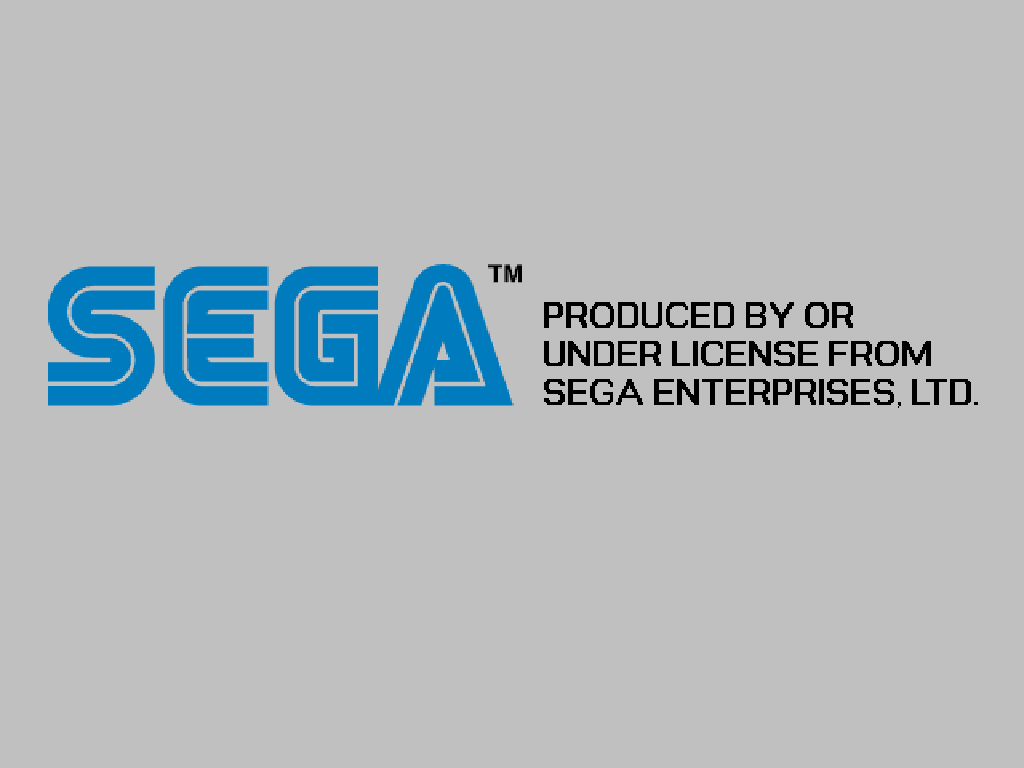
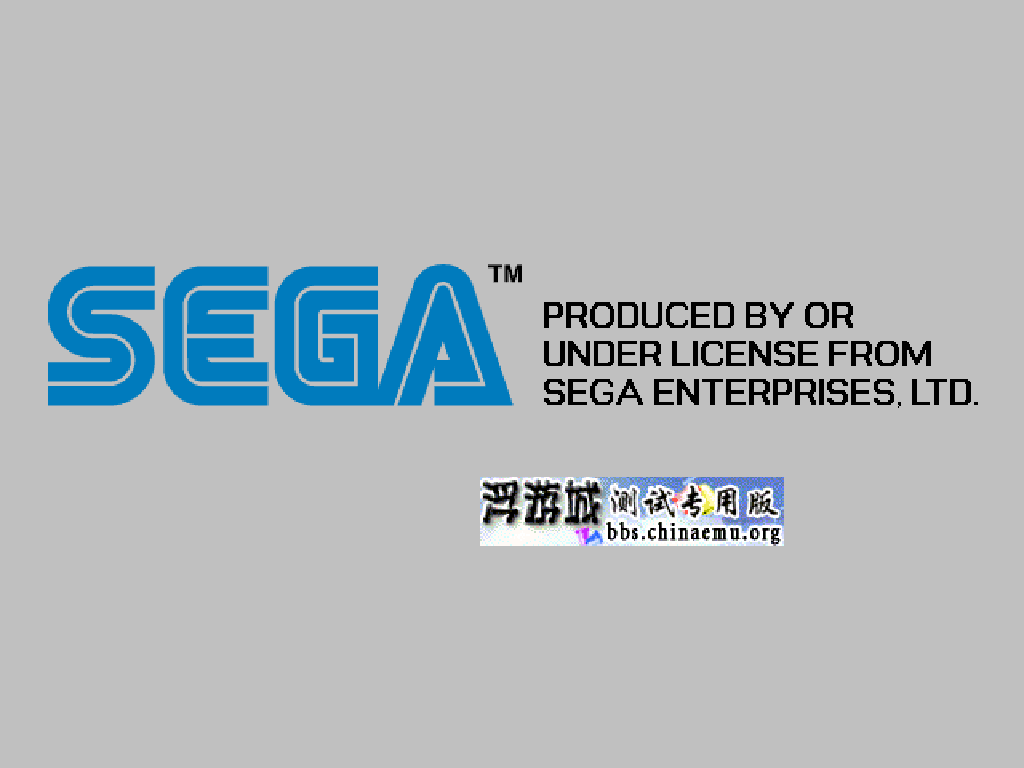
docs: the eight-core numbers from the flashed card, not from hand-deployed files
Same table, re-measured after the dd, and every row agrees with the previous run
inside noise (nes 59.84/59.82, dreamcast 59.05/58.85, saturn 14.22/14.13), which
is the point - the cores behave the same whether the files were copied or
installed by the pack.

Also corrects one claim: flycast's SIGTERM handling is unreliable rather than
absent (rc=137 one day, rc=124 the next on the same card and game), so the rule
is "always pass timeout -k", not "flycast ignores TERM". The Dreamcast image is
now the frame-900 capture, which also shows the translation patch's watermark.

Changed region(s): [[0.4688, 0.5938, 0.7812, 0.7188]]

diff --git a/documentation/PER_DEVICE_DOCUMENTATION/r36max2/EMULATORS.md b/documentation/PER_DEVICE_DOCUMENTATION/r36max2/EMULATORS.md
@@ -81,19 +81,23 @@ ES 的 <command> = /usr/local/bin/r36-play %ROM%
 
 | 系统 | 核 | 游戏 | 标称 | 实测持续 | 结论 |
 | --- | --- | --- | --- | --- | --- |
-| nes | fceumm | 宝石方块.zip | 60.10 | **59.84 fps** | 满速 |
-| snes | snes9x2010 | 超级马里奥医生.zip | 60.096 | **60.47 fps** | 满速 |
-| gb | gambatte | 打砖块.zip | 59.73 | **59.34 fps** | 满速 |
-| gbc | gambatte | 骰子方块.zip | 59.73 | **59.45 fps** | 满速 |
-| gba | mgba | 数独.zip | 59.73 | **60.18 fps** | 满速 |
-| gba | vba_next | 数独.zip | 59.73 | **61.03 fps** | 满速 |
-| psx | pcsx_rearmed | 大航海时代外传[简].PBP | 59.82 | **60.06 fps** | 满速 |
-| dreamcast | flycast | 月华剑士2 汉化版.cdi | 60 | **59.05 fps** | 基本满速 |
+| nes | fceumm | 宝石方块.zip | 60.10 | **59.82 fps** | 满速 |
+| snes | snes9x2010 | 超级马里奥医生.zip | 60.096 | **60.31 fps** | 满速 |
+| gb | gambatte | 打砖块.zip | 59.73 | **59.89 fps** | 满速 |
+| gbc | gambatte | 骰子方块.zip | 59.73 | **60.60 fps** | 满速 |
+| gba | mgba | 数独.zip | 59.73 | **60.00 fps** | 满速 |
+| gba | vba_next | 数独.zip | 59.73 | **62.13 fps** | 满速 |
+| psx | pcsx_rearmed | 大航海时代外传[简].PBP | 59.82 | **59.94 fps** | 满速 |
+| dreamcast | flycast | 月华剑士2 汉化版.cdi | 60 | **58.85 fps** | 基本满速 |
 | dreamcast | flycast | Capcom vs SNK 2.chd | 60 | **55.48 fps** | 92%，个别场面掉帧 |
-| saturn | mednafen_saturn | 棉花小魔女 日版.chd | 60 | **14.22 fps** | 不可玩 |
+| saturn | mednafen_saturn | 棉花小魔女 日版.chd | 60 | **14.13 fps** | 不可玩 |
 | saturn | mednafen_saturn | 大航海时代2[简].chd | 60 | **15.41 fps** | 不可玩 |
 
-十一次启动全部 `rc=0`、`errors=0`、`Initialized PLAYBACK device` 至少一次。DC 的日志里有真正的
+这张表是**从刷好的镜像启动的那张卡**上量的（2026-10-09）。前一天在手工部署的同款文件上也量过
+一遍，逐项差都在噪声内（nes 59.84/59.82、dreamcast 59.05/58.85、saturn 14.22/14.13），
+所以核的表现与"文件是拷进去的还是装进去的"无关。
+
+两轮共 20 次启动全部 `rc=0`、`errors=0`、`Initialized PLAYBACK device` 至少一次。DC 的日志里有真正的
 启动信息（`[BOOT]: Product number: T1249M`），Saturn 认出了盘（`Game ID is: T-9906G`、
 `This is a Saturn disc`、`Disc Region: "Japan"`）。
 
@@ -101,15 +105,15 @@ ES 的 <command> = /usr/local/bin/r36-play %ROM%
 静默什么都不产出）让 RetroArch 用自己的读回路径出图 —— 这条路上 `--verbose` 拿不到的画面证据
 终于有了，而且和"抓 `/dev/fb0` 抓不到 ES"不冲突（见 [EMULATIONSTATION.md](EMULATIONSTATION.md)）：
 
-![Dreamcast：flycast 跑月华剑士2，量到的是真 SEGA 授权画面](images/dreamcast-flycast-boot.png)
-![Saturn：satune 跑棉花小魔女，同样 boot 到了 SEGA 画面，只是只有 14 fps](images/saturn-satune-boot.png)
+![Dreamcast：flycast 跑月华剑士2 汉化版，第 900 帧——SEGA 授权画面加上汉化组水印都在](images/dreamcast-flycast-boot.png)
+![Saturn：satune 跑棉花小魔女，第 600 帧 boot 到 SEGA 授权画面，只是只有 14 fps](images/saturn-satune-boot.png)
 ![PlayStation：pcsx_rearmed 跑大航海时代外传 PBP，KOEI 开场](images/psx-pcsx-rearmed-boot.png)
 
-**一个只在脚本里才会踩到的点**：flycast **不响应 SIGTERM**，所以 `timeout 45 r36-play <dc 游戏>`
-会一直挂着（实测 `rc=137`，必须 `-k` 才收得掉）。RetroArch 自己的退出路径没这个问题 ——
-`--max-frames` 和菜单里的 Quit 都是干净退出（DC 那 11 次 `--max-frames` 全部 `rc=0`）。
-也就是说这是**测量脚本**的坑，不是用户按退出会遇到的坑；但任何"跑 N 秒然后杀"的做法都必须
-`timeout -k`。
+**一个只在脚本里才会踩到的点**：flycast 对 **SIGTERM 的响应不可靠** —— 同一张卡、同一个游戏，
+2026-10-08 那次 `timeout -k 5 12 r36-play <dc 游戏>` 是 `rc=137`（TERM 没生效，靠 KILL 收掉），
+第二天同一行命令是 `rc=124`（正常退出）。所以任何"跑 N 秒然后杀"的写法**必须带 `-k`**，
+不能假设 TERM 够用。RetroArch 自己的退出路径没这个问题：`--max-frames` 每次都 `rc=0` 干净退出，
+菜单里的 Quit 走的是同一条路。也就是说这是**测量脚本**的坑，不是玩家按退出会遇到的坑。
 
 也就是说：**"能不能加载"这一层全过了；DC 在这台机器上是真能玩的；Saturn 差的是速度，
 而速度是这颗 SoC 与这个核（satune 没有 ARM dynarec）的上限，不是配置的疏漏。**
